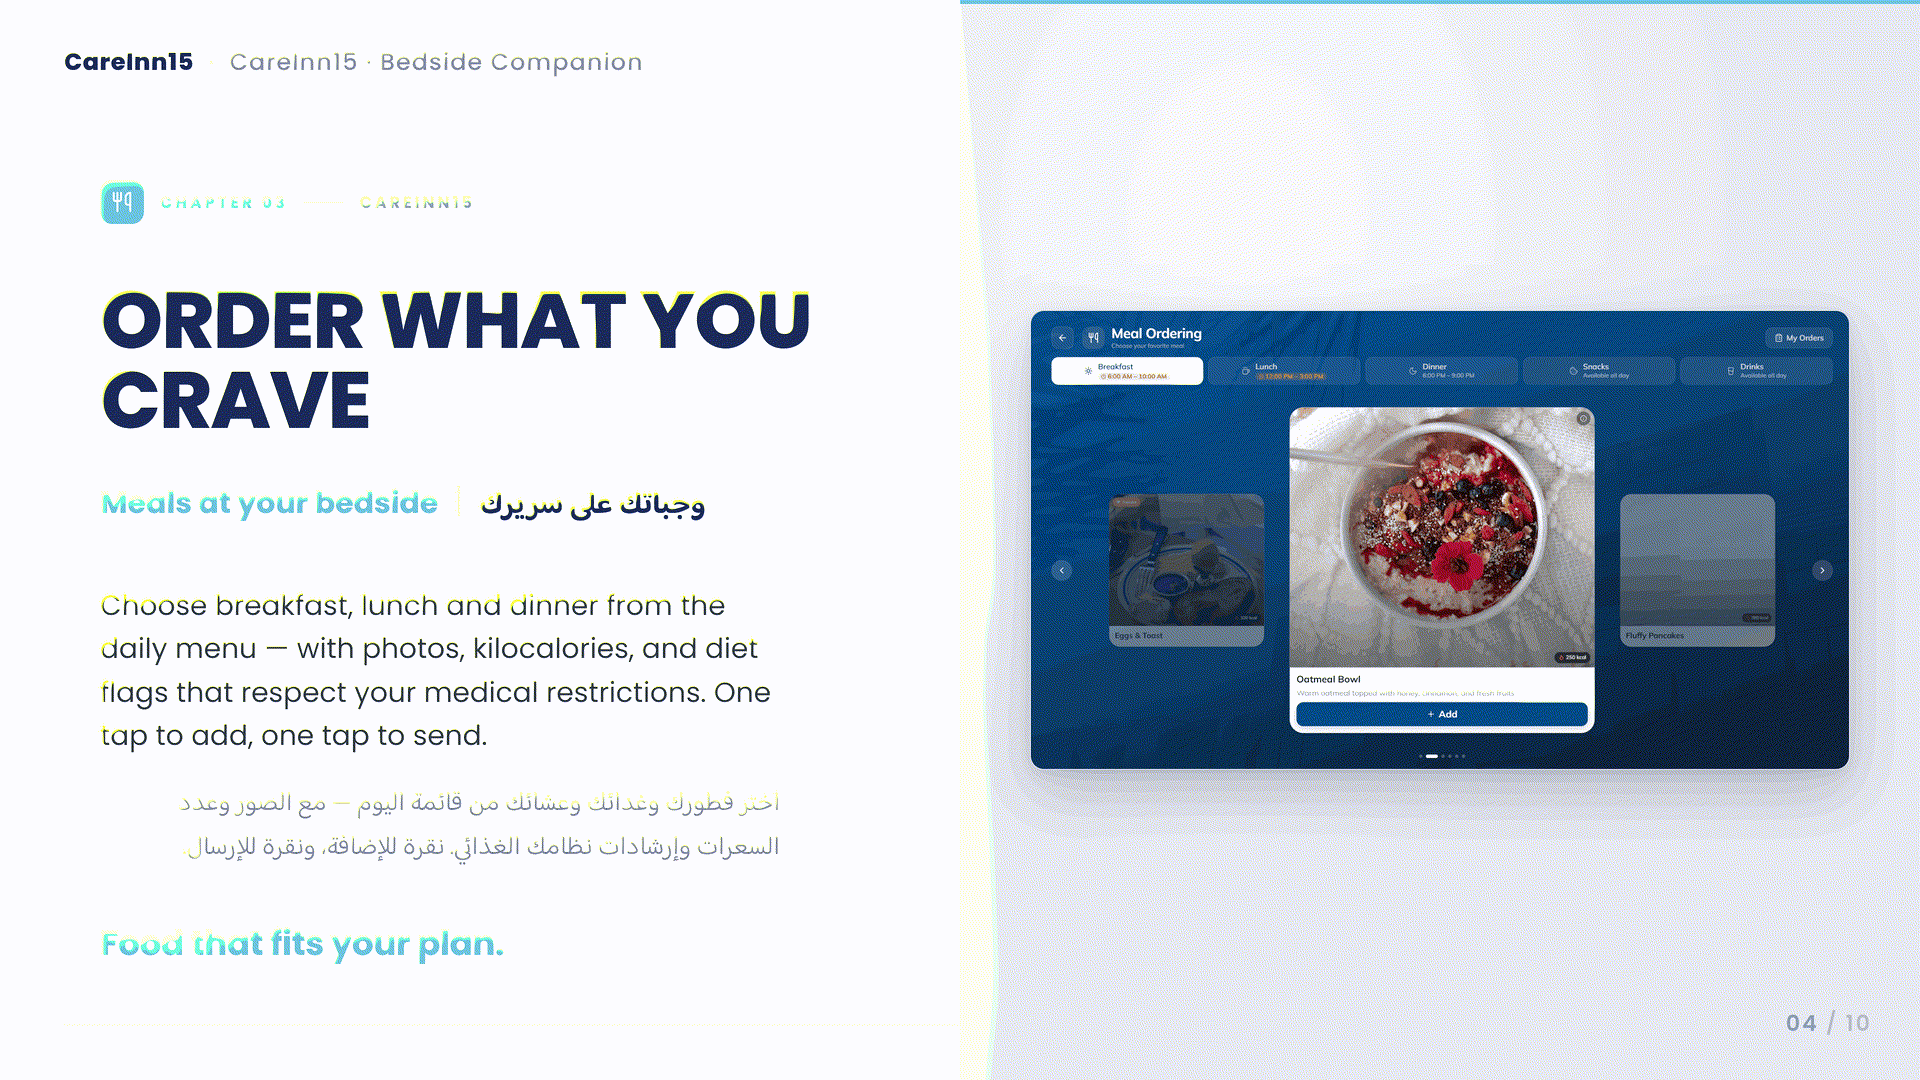
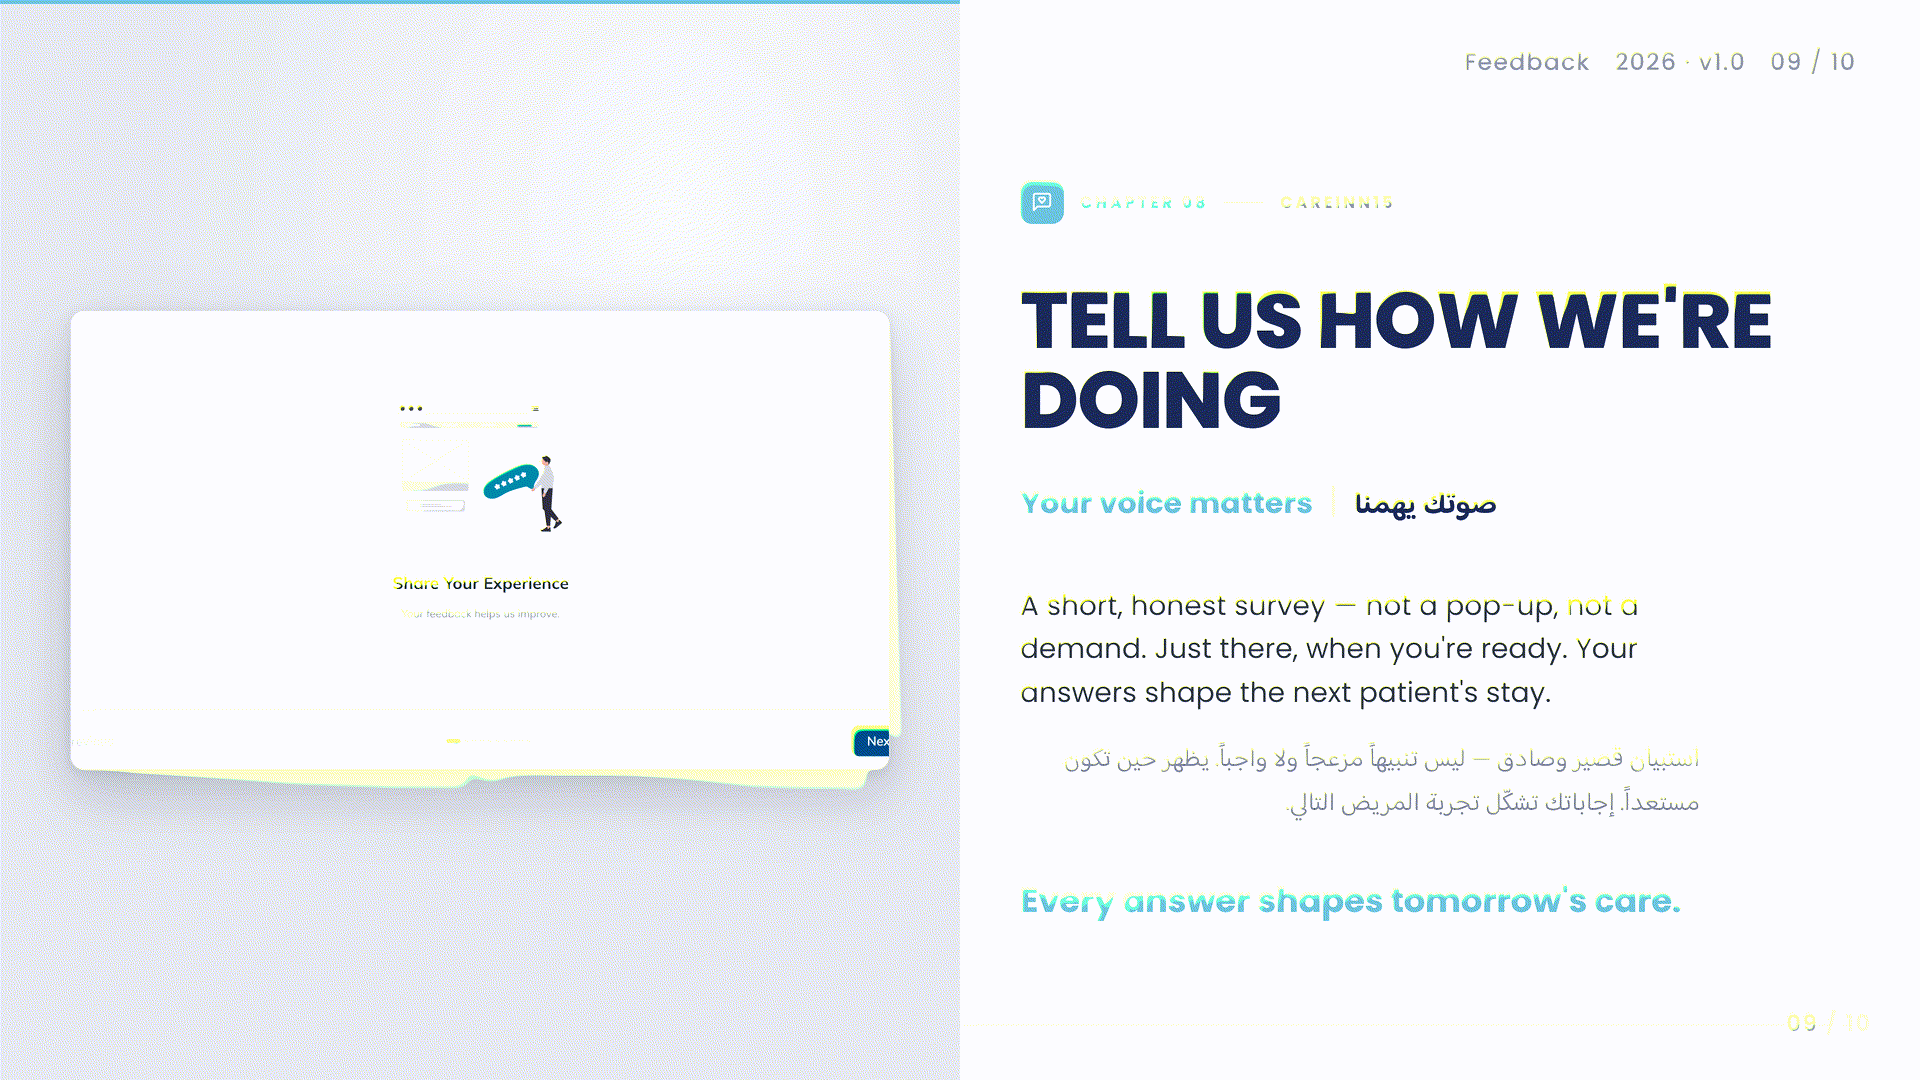
Welcome slideshow: 10 -> 5 slides; delete dead unused assets
- Slideshow reduced to 5 pages (removed middle pages 4-8; kept 1-3 which
  carries the animated demo overlay, plus the final two renumbered to 4-5).
  TOTAL and counter updated to 5.
- Deleted 6 dead hash-named PNGs from src/assets (~30 MB) that were not
  imported anywhere and never in the build. Verified build still passes.

diff --git a/public/CareInn Welcome Slideshow.html b/public/CareInn Welcome Slideshow.html
@@ -210,7 +210,7 @@
     <svg viewBox="0 0 24 24" fill="none" stroke="currentColor" stroke-width="2" stroke-linecap="round" stroke-linejoin="round"><path d="M15 18l-6-6 6-6"/></svg>
   </button>
   <div id="dots"></div>
-  <span class="counter" id="counter">1 / 10</span>
+  <span class="counter" id="counter">1 / 5</span>
   <button class="nav-btn" id="btn-next" title="Next">
     <svg viewBox="0 0 24 24" fill="none" stroke="currentColor" stroke-width="2" stroke-linecap="round" stroke-linejoin="round"><path d="M9 18l6-6-6-6"/></svg>
   </button>
@@ -218,7 +218,7 @@
 
 <script>
 (function() {
-  const TOTAL = 10;
+  const TOTAL = 5;
   const SLIDES = [];
   for (let i = 1; i <= TOTAL; i++) {
     SLIDES.push('assets/welcome-slides/image-' + i + '-1.png');
